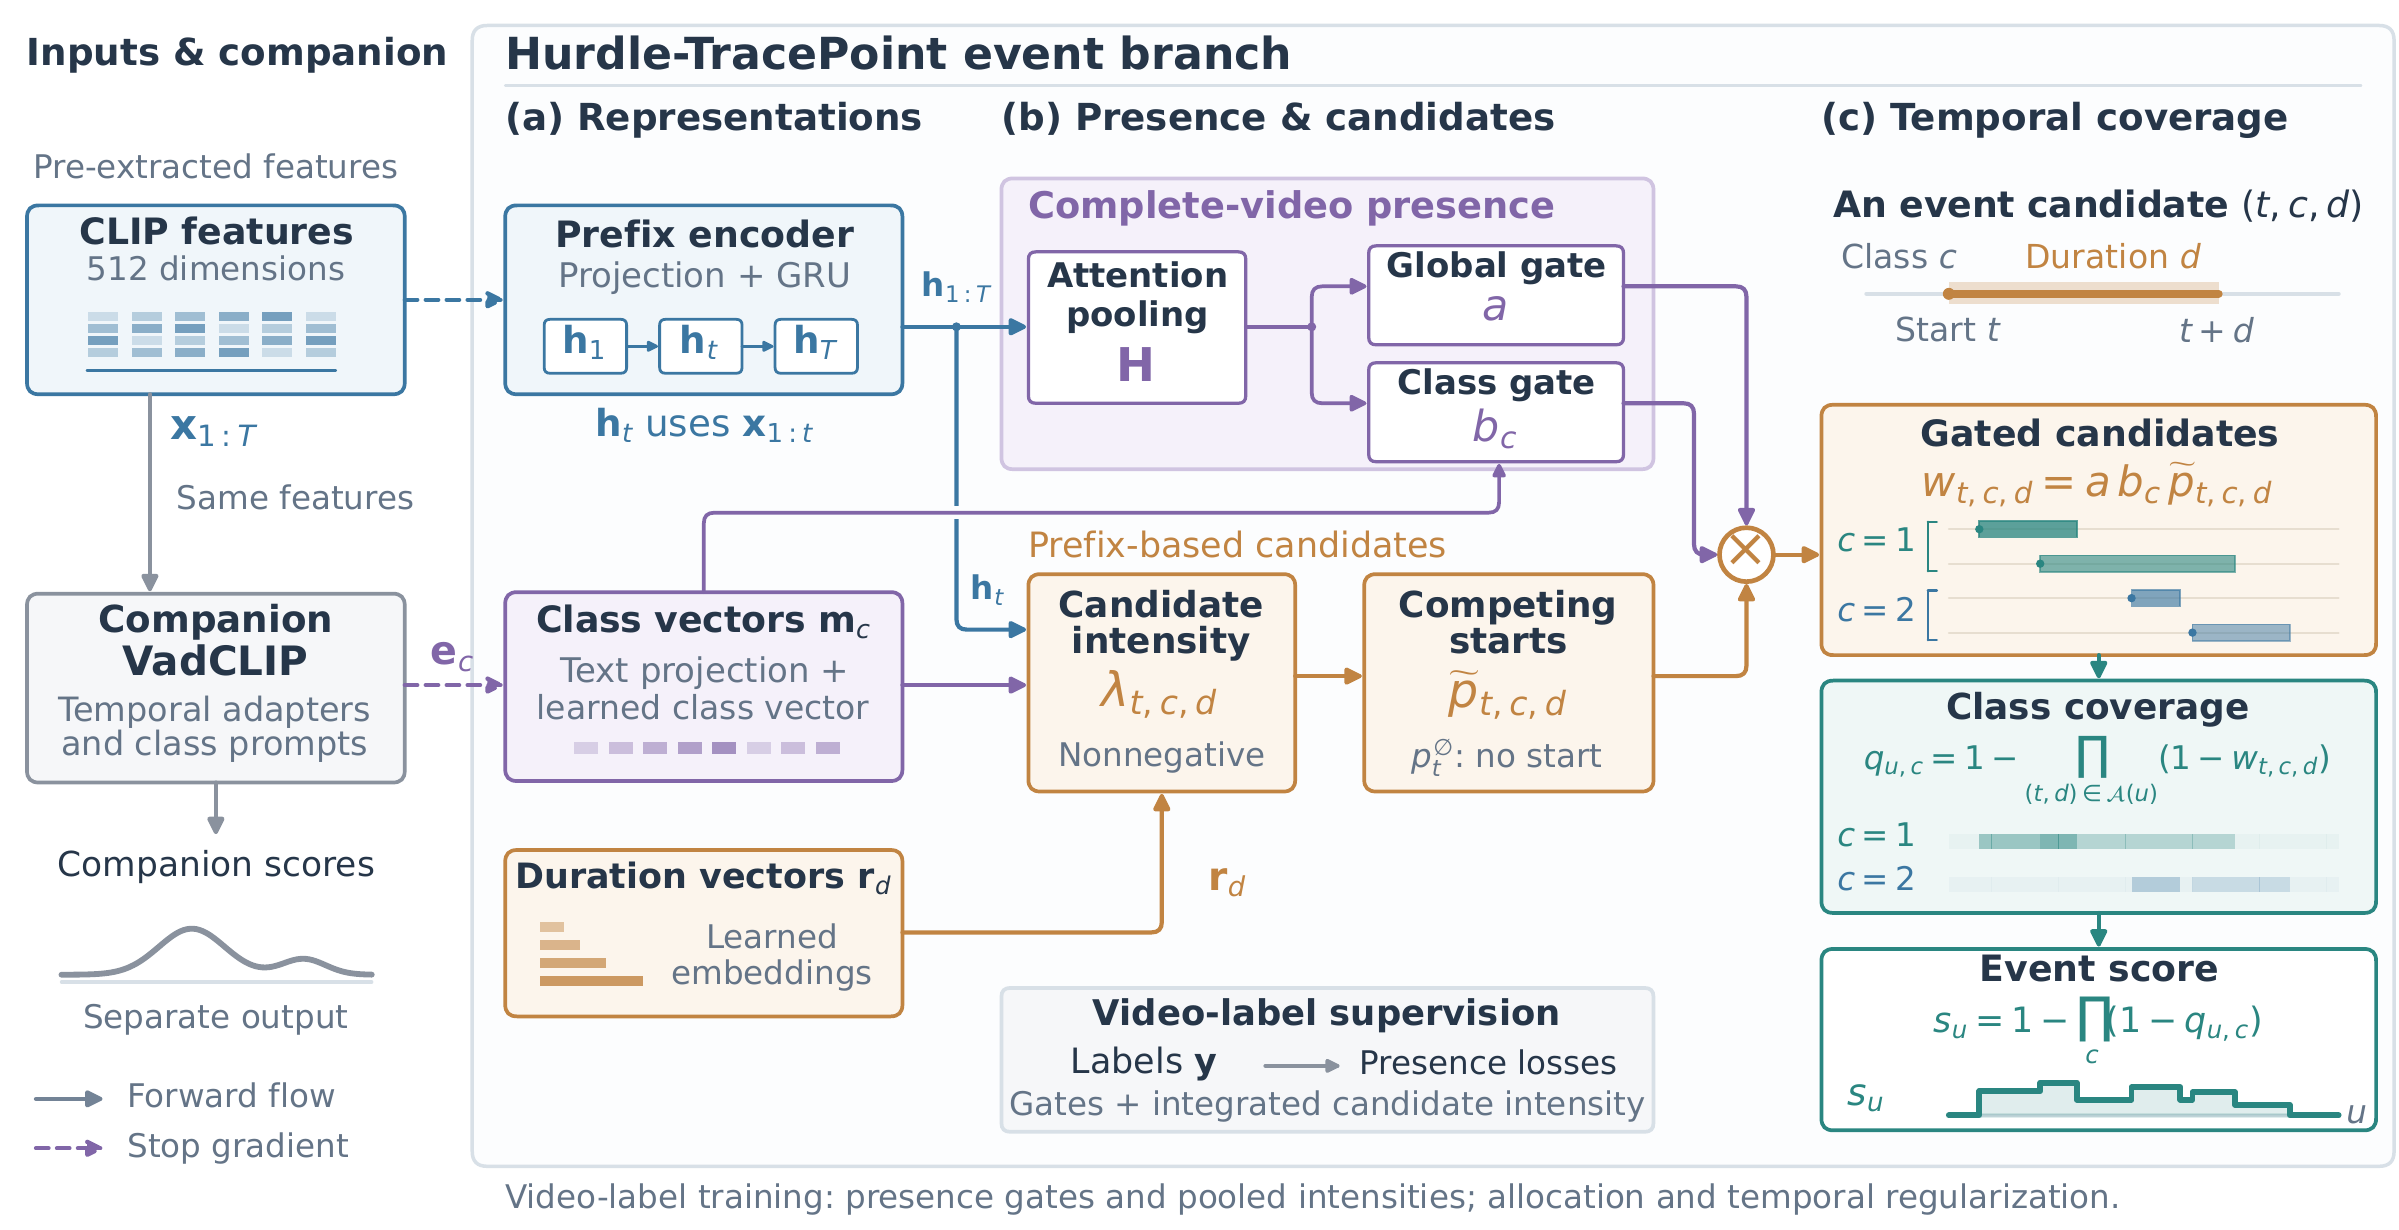
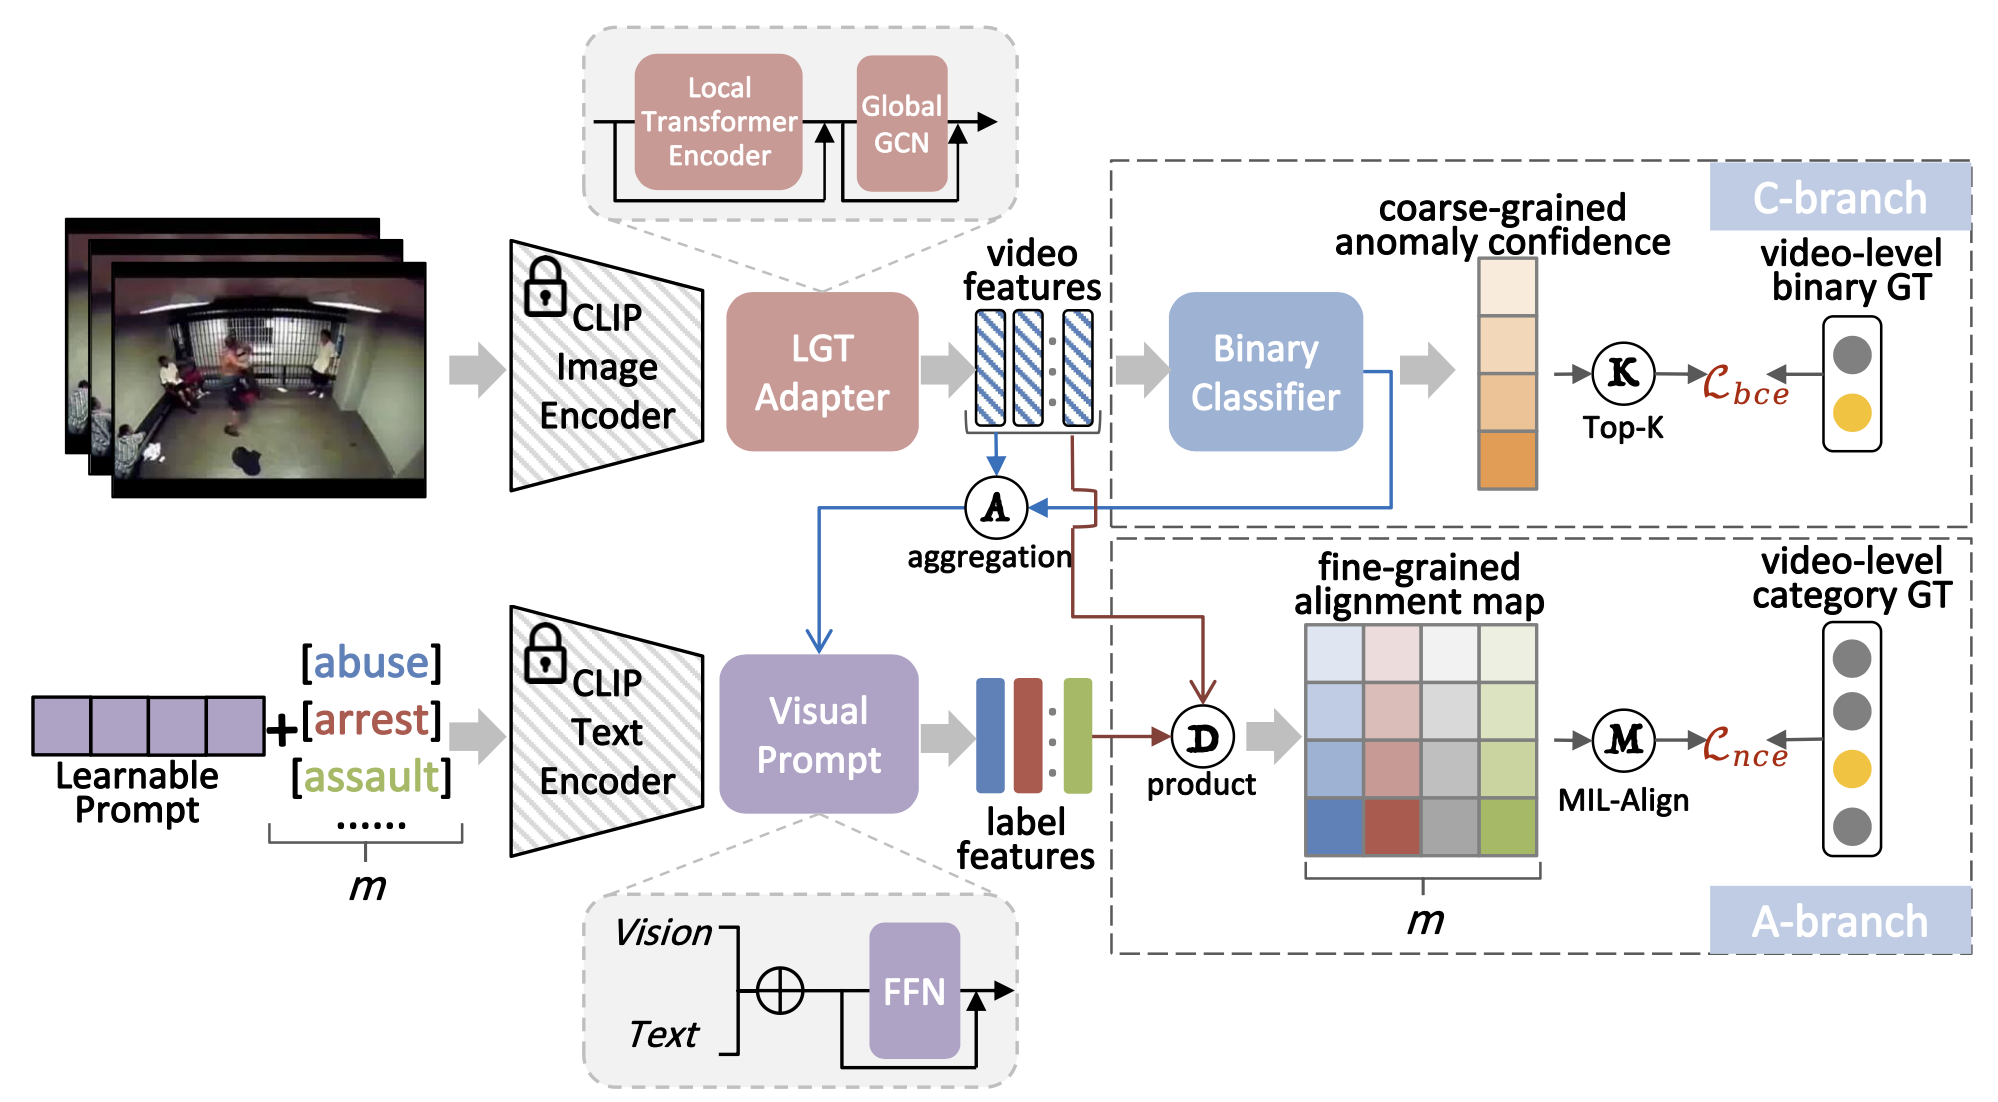
Sync public README and overview image

diff --git a/README.md b/README.md
@@ -1,6 +1,6 @@
 # Hurdle-TracePoint
 
-PyTorch implementation of **Hurdle-TracePoint: Latent Event Modeling with Structural-Zero Gating for Weakly Supervised Video Anomaly Detection**.
+PyTorch implementation of **Hurdle-TracePoint: Presence-Gated Event Scoring for Weakly Supervised Video Anomaly Detection**.
 
 Hurdle-TracePoint learns temporal anomaly scores from video-level labels. It adds an event branch to [VadCLIP](https://github.com/nwpu-zxr/VadCLIP): the branch estimates whether an anomaly is present in a video, then uses that estimate to weight candidate events before combining them into a score over time.
 
